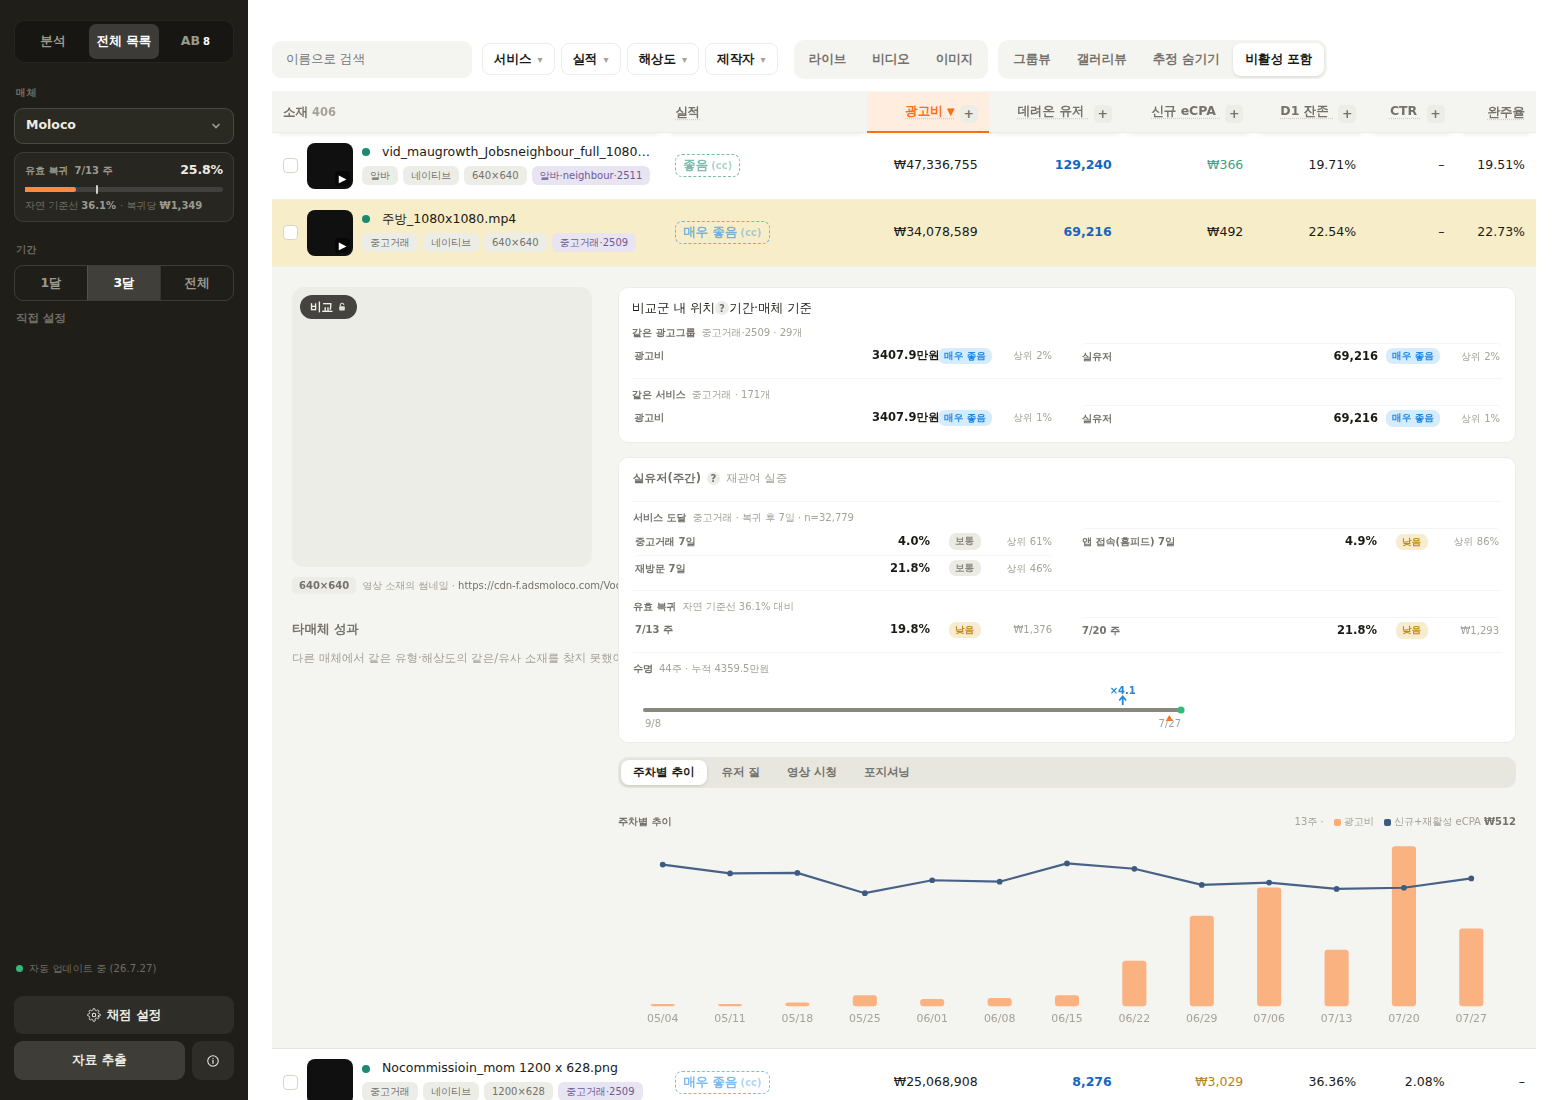
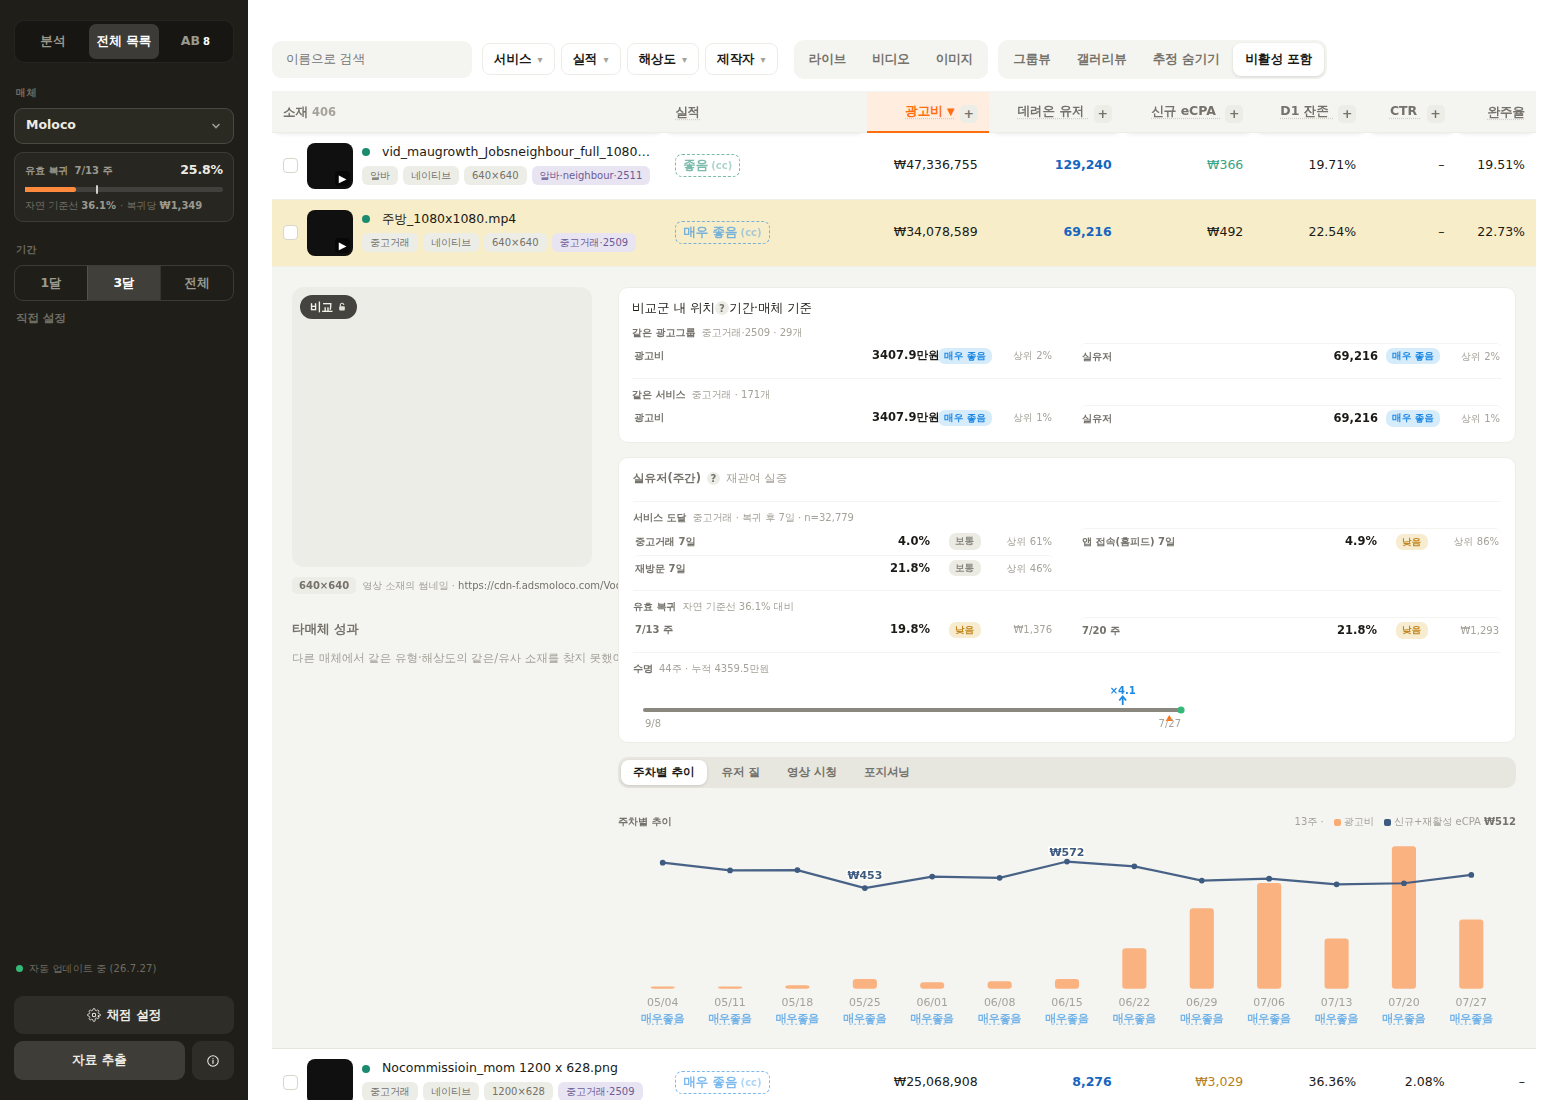
비교뷰 관심 소재 강조 · 주차별 추이 실적 라벨 상시 표기·선 최고/최저 수치 (#173)
비교뷰:
- 미리보기 카드나 표 열에 마우스를 올리면 차트에서 그 소재의 선이 굵어지고(1.6→3.4px)
  점이 커지며 나머지는 물러난다(opacity .16). 선이 얇아 여러 개가 겹칠 때 색만으로는
  지금 보는 게 어느 것인지 찾기 어려웠다
- 카드·표 헤더·표 셀·차트 선/점이 data-ci(소재 인덱스)를 공유해 어느 쪽에 올려도 함께 반응

주차별 추이:
- 막대 밑 실적 라벨을 모든 주에 채운다. 직전엔 '변화 지점만'으로 줄였는데 빈 주가 너무 많아
  판단이 안 됐다 — 빈칸은 '성과 없음'으로 오독되므로 실측이 없으면 추정 등급을 흐린 점선으로
  깔아 대강이라도 읽히게 한다. 구글 외 매체(실측 라벨 미제공)도 추정으로 채운다
- 선의 최고점·최저점에만 수치를 표기. 라벨 위치는 그 주에서 이 선이 다른 선보다 위인지로
  정해(위면 점 위, 아래면 점 아래) 두 선이 교차해도 숫자가 겹치지 않는다.
  흰 외곽선(paint-order)으로 선 위에 겹쳐도 읽힌다

검증: 비교뷰 2·3·4·5·6·8개 레이아웃 무결(넘침 0·배율 1.0), 호버 시 선 1개만 3.4px·나머지 3개
dim 확인, 상세 4개 매체 클리핑 0·오류 0.

Claude-Session: https://claude.ai/code/session_01MTtavjs5eMP9qoMEN7bzkC

diff --git a/index.html b/index.html
@@ -705,6 +705,15 @@
   /* 모든 섹션이 이 한 폭을 공유한다 — 개수에서 유도한 max-width가 인라인으로 들어온다.
      예전엔 카드만 좌측에 몰리고(고정 max 360px) 표·차트는 화면 전체를 써서 세로선이 어디에도 맞지 않았다 */
   .cmpm-in{margin:0 auto;width:100%}
+  /* 관심 소재 강조 — 카드·표 열 호버 시 차트의 해당 선/점만 굵게, 나머지는 물러난다 */
+  .cmpm-in path.cmp-ln{transition:stroke-width .12s,opacity .12s}
+  .cmpm-in circle.cmp-dot{transition:opacity .12s}
+  path.cmp-ln.cmp-hi{stroke-width:3.4;stroke-opacity:1}
+  circle.cmp-dot.cmp-hi{r:5}
+  path.cmp-ln.cmp-dim,circle.cmp-dot.cmp-dim{opacity:.16}
+  .cmpm-med.cmp-hi .isle-frame{box-shadow:inset 0 0 0 3px var(--cc,#E2DFD3)}
+  .cmpm-med.cmp-dim{opacity:.5}
+  .cmpg th.cmp-hi,.cmpg td.cmp-hi{background:var(--surface-2)}
   /* 미리보기 — 개수에서 정한 열 수로 접고(5~6개는 3열 2행), 프레임 높이도 같은 규칙에서 온다 */
   .cmpm-media{display:grid;gap:16px 14px;margin:2px 0 8px}
   .cmpm-med{min-width:0}
@@ -3666,7 +3675,11 @@ function creativeTrendHTML(ds,e){
       const w=String(r.date||"").slice(0,10);
       const v=String(r._g_perfLabel).trim().replace(/^--$/,"");
       if(_plW[w]==null||v)_plW[w]=v;}}
-  const hasPl=ws.some(w=>_plW[w]!==undefined);
+  /* 막대 밑 실적 — 실측이 없어도 추정 등급으로라도 매 주 채운다. 빈칸은 '성과 없음'으로 오독되고,
+     대강이라도 등급이 보여야 막대만 보고 판단할 수 있다. 구글 외 매체는 실측 라벨이 없으므로 추정으로 채운다 */
+  const _fbP=(typeof perfLabelOf==="function")?perfLabelOf(e):null;
+  const _fbLab=(_fbP&&_fbP.lab)||e._perfEst||"";
+  const hasPl=ws.some(w=>_plW[w]!==undefined)||!!_fbLab;
   /* viewBox를 렌더 폭(≈820)에 맞춰 배율 1로 둔다 — 좌표계가 작으면 SVG가 통째로 확대돼(실측 2.7배)
      글자·선이 타이포 스케일을 무시하고 커진다. 주가 많으면 폭 대신 슬롯을 좁혀 담는다(가로 스크롤 없음). */
   const W=820,pl=10,pr=10,pt=14;
@@ -3676,7 +3689,6 @@ function creativeTrendHTML(ds,e){
   const slot=iw/ws.length,xat=i=>pl+(i+0.5)*slot;
   const bw=Math.max(4,Math.min(22,slot*0.38)); /* 슬롯에 비례한 막대 — 주가 많아도 겹치지 않는다 */
   let s="";
-  let _prevLab=null; /* 같은 등급이 이어지면 생략하고 '바뀐 지점'에만 라벨을 찍는다 — 13주 내내 같은 글자가 반복되면 노이즈다 */
   ws.forEach((w,i)=>{const o=os[i],x=xat(i);
     const h=Math.max(2,(o.c/cmax)*ih);
     /* 주차 점수 표기·티어색 제거 — 점수는 내부 계산 전용, 화면엔 지표 원값만 */
@@ -3688,24 +3700,34 @@ function creativeTrendHTML(ds,e){
       /* 그 주의 실측 실적 라벨. 없는 주는 빈칸으로 두지 않고 소재 전체 추정 등급을 점선 밑줄로 표기 —
          "라벨이 없다"와 "성과가 없다"는 다른 뜻이라 빈칸이 오독을 만든다 */
       const act=_plW[w];
-      /* 그 주 실측 라벨이 없으면 빈칸으로 두지 않는다 — 소재의 현재 라벨(없으면 추정)을 점선으로 깐다.
-         "라벨이 없다"와 "성과가 없다"는 다른 뜻이라 빈칸이 오독을 만든다 */
-      const _fb=(typeof perfLabelOf==="function")?perfLabelOf(e):null;
-      const lab0=(act!==undefined&&act)?act:(act===undefined?((_fb&&_fb.lab)||e._perfEst||""):"보통");
-      const changed=lab0!==_prevLab;_prevLab=lab0;
-      if(lab0&&(changed||i===ws.length-1)){
+      const lab0=(act!==undefined&&act)?act:(act===undefined?_fbLab:"보통");
+      if(lab0){
         const est=!(act!==undefined&&act);
         const lab=PERF_LABEL_ALIAS[lab0]||lab0;
         const t=PERF_TIER[lab]||"m";
         const tc=t==="g2"?"var(--g2)":t==="g1"?"var(--g1)":t==="w1"?"var(--w1)":t==="w2"?"var(--w2)":"var(--mid)";
-        s+=`<text x="${x.toFixed(1)}" y="${H-6}" font-size="10" font-weight="${est?600:700}" fill="${tc}" fill-opacity="${est?0.6:1}" text-anchor="middle" data-tip="${escAttr((est?"<b>추정 실적</b> — 이 주의 리포트 실적 라벨이 없어 최근 확인된 등급을 표시(점선)":"구글 리포트 실측 실적")+"<br>등급이 바뀐 주와 마지막 주에만 표시합니다")}">${escHtml(lab.replace(/\s+/g,""))}</text>`;
+        s+=`<text x="${x.toFixed(1)}" y="${H-6}" font-size="10" font-weight="${est?600:700}" fill="${tc}" fill-opacity="${est?0.6:1}" text-anchor="middle" data-tip="${escAttr(est?"<b>추정 실적</b>(점선) — 이 주의 리포트 실적 라벨이 없어 최근 확인된 등급으로 대신 표시":"구글 리포트 실측 실적")}">${escHtml(lab.replace(/\s+/g,""))}</text>`;
         if(est)s+=`<line x1="${(x-14).toFixed(1)}" y1="${H-3.5}" x2="${(x+14).toFixed(1)}" y2="${H-3.5}" stroke="${tc}" stroke-width="1" stroke-dasharray="2 2" stroke-opacity="0.5"/>`;}}});
   for(const ln of lines){let p="",st=false,dots="";
     ws.forEach((w,i)=>{const v=ln.vals[i];if(v==null)return;
       const x=xat(i),y=pt+(1-v/ln.mx)*ih;
       p+=st?` L ${x.toFixed(1)} ${y.toFixed(1)}`:`M ${x.toFixed(1)} ${y.toFixed(1)}`;st=true;
       dots+=`<circle cx="${x.toFixed(1)}" cy="${y.toFixed(1)}" r="2.6" fill="${ln.col}"/>`;});
-    s+=`<path d="${p}" fill="none" stroke="${ln.col}" stroke-width="2"${ln.dash?' stroke-dasharray="5 3"':''} stroke-opacity="0.95"/>${dots}`;}
+    s+=`<path d="${p}" fill="none" stroke="${ln.col}" stroke-width="2"${ln.dash?' stroke-dasharray="5 3"':''} stroke-opacity="0.95"/>${dots}`;
+    /* 최고·최저점만 수치를 적는다(모든 점에 붙이면 숫자가 선을 덮는다).
+       라벨을 위에 둘지 아래에 둘지는 그 주에서 이 선이 다른 선보다 위인지로 정한다 — 두 선이 교차해도 겹치지 않는다 */
+    const yOf=(o,i)=>o.vals[i]==null?null:pt+(1-o.vals[i]/o.mx)*ih;
+    let hi=null,lo=null;
+    ln.vals.forEach((v,i)=>{if(v==null)return;
+      if(!hi||v>hi.v)hi={i,v};
+      if(!lo||v<lo.v)lo={i,v};});
+    const marks=hi&&lo&&hi.i!==lo.i?[hi,lo]:(hi?[hi]:[]);
+    for(const mk of marks){
+      const x=xat(mk.i),y=yOf(ln,mk.i);
+      let above=true;
+      for(const o of lines){if(o===ln)continue;const oy=yOf(o,mk.i);if(oy!=null&&oy<y){above=false;break;}}
+      const ly=above?Math.max(pt+9,y-8):Math.min(H-pb-4,y+15);
+      s+=`<text x="${x.toFixed(1)}" y="${ly.toFixed(1)}" text-anchor="middle" font-size="10" font-weight="750" fill="${ln.col}" paint-order="stroke" stroke="#FFFDF7" stroke-width="3" stroke-linejoin="round">${escHtml(ln.fmt(mk.v))}</text>`;}}
   /* 범례는 최소한으로: 주 수 · 색=지표 매핑 · 최신값. 비율·설명은 푸터/툴팁이 담당(중복 금지) */
   const leg=lines.map(ln=>`<span><i class="lgd" style="background:${ln.col}"></i>${ln.lab} <b>${ln.last!=null?ln.fmt(ln.last):"–"}</b></span>`).join(" ");
   return `<div class="ispark"><div class="ispark-h">주차별 추이 <span>${ws.length}주 · <i class="lgd" style="background:var(--karrot);opacity:.55"></i>광고비 ${leg}</span></div><div class="ispark-scroll"><svg class="ispark-svg" viewBox="0 0 ${W} ${H}">${s}</svg></div></div>`;}
@@ -4485,9 +4507,9 @@ function cmpAxesSVG(R){
     const ps=pts[j].filter(Boolean);
     if(!ps.length)return;
     let pth="";ps.forEach((p,k)=>{pth+=(k?" L":"M")+` ${p.x.toFixed(1)} ${p.y.toFixed(1)}`;});
-    lines2+=`<path d="${pth}" fill="none" stroke="${col}" stroke-width="1.6" stroke-opacity="0.9" stroke-linejoin="round"/>`;
+    lines2+=`<path class="cmp-ln" data-ci="${en.i}" d="${pth}" fill="none" stroke="${col}" stroke-width="1.6" stroke-opacity="0.9" stroke-linejoin="round"/>`;
     pts[j].forEach((p,ci)=>{if(!p)return;const c=cols[ci];
-      dots+=`<circle class="cmp-dot" cx="${p.x.toFixed(1)}" cy="${p.y.toFixed(1)}" r="3.2" fill="${col}" data-cv="${escAttr(c.d.lab+" "+c.d.fmt(c.raw[j]))}" data-cc="${col}"/>`;});});
+      dots+=`<circle class="cmp-dot" data-ci="${en.i}" cx="${p.x.toFixed(1)}" cy="${p.y.toFixed(1)}" r="3.2" fill="${col}" data-cv="${escAttr(c.d.lab+" "+c.d.fmt(c.raw[j]))}" data-cc="${col}"/>`;});});
   /* 지표(열)마다 최고점 위·최저점 아래에만 수치 표기 — 작고 가볍게 */
   cols.forEach((c,ci)=>{
     const here=pts.map(ent=>ent[ci]).filter(Boolean);
@@ -4504,7 +4526,7 @@ function cmpGridHTML(R){
   /* 열이 많아지면 헤더 이름부터 줄여 표가 가로로 넘치지 않게 한다(넘치면 오른쪽 소재가 화면 밖으로 나간다) */
   const nmLen=ents.length>=7?8:(ents.length>=5?11:14);
   const head=order.map((j,rank)=>{const en=ents[j];const nm=displayNameOf(en.e);
-    return `<th style="color:${R.colorByList.get(en.i)}" title="${escAttr(nm)}">${rank+1}위 · ${escHtml(trunc(nm,nmLen))}</th>`;}).join("");
+    return `<th data-ci="${en.i}" style="color:${R.colorByList.get(en.i)}" title="${escAttr(nm)}">${rank+1}위 · ${escHtml(trunc(nm,nmLen))}</th>`;}).join("");
   const rows=defs.map(d=>{
     const vs=tots.map(t=>d.of(t));
     if(vs.every(v=>v==null))return "";
@@ -4515,7 +4537,7 @@ function cmpGridHTML(R){
     const second=sorted.length>=2?sorted[1]:null;
     const domi=best!=null&&second!=null&&second>0&&best>0&&(d.dir>0?best/second:second/best)>=1.5;
     const cells=order.map(j=>{const v=vs[j];const win=d.dir&&v!=null&&val.length>=2&&v===best;
-      return `<td class="num${win?" win":""}${win&&domi?" gold":""}">${v!=null?d.fmt(v):"–"}</td>`;}).join("");
+      return `<td class="num${win?" win":""}${win&&domi?" gold":""}" data-ci="${ents[j].i}">${v!=null?d.fmt(v):"–"}</td>`;}).join("");
     return `<tr><td class="l">${escHtml(d.lab)}${d.dir<0?" ↓":d.dir>0?" ↑":""}</td>${cells}</tr>`;}).join("");
   return `<div class="cmpg-wrap"><table class="cmpg"><thead><tr><th class="l">지표</th>${head}</tr></thead><tbody>${rows}</tbody></table></div>`;}
 /* [추이] 지표별 바둑판 — 전 지표를 한눈에. 표시 구간은 '몇 개 이상의 소재가 함께 집행된 주'로 직접 고른다
@@ -4563,6 +4585,19 @@ function cmpTrendSectionHTML(R){
     return `<div class="cmp-trc"><h5>${escHtml(d.lab)}${d.dir<0?" ↓":d.dir>0?" ↑":""}</h5><svg viewBox="0 0 ${W2} ${H2}" style="width:100%;height:auto">${svg}${xlab(xat2,W2,H2,8)}</svg></div>`;}).filter(Boolean);
   if(!cells.length)return `<div class="fam-note">주간 값이 있는 지표가 없어요</div>`;
   return `<div class="cmp-trgrid">${cells.join("")}</div>`;}
+/* 관심 소재 강조 — 미리보기 카드나 표 열에 마우스를 올리면 차트에서 그 소재의 선·점만 굵어지고 나머지는 물러난다.
+   선이 얇아 여러 개가 겹칠 때 "지금 보는 게 어느 것인지"를 색만으로 찾기 어려웠다. */
+function cmpSetHi(root,ci){
+  root.querySelectorAll("[data-ci]").forEach(el=>{
+    const on=ci==null||String(el.dataset.ci)===String(ci);
+    el.classList.toggle("cmp-hi",ci!=null&&on);
+    el.classList.toggle("cmp-dim",ci!=null&&!on);});}
+function wireCmpHover(root){
+  let cur=null;
+  const set=ci=>{if(cur===ci)return;cur=ci;cmpSetHi(root,ci);};
+  root.querySelectorAll(".cmpm-med[data-ci], .cmpg th[data-ci], .cmpg td[data-ci]").forEach(el=>{
+    el.addEventListener("mouseenter",()=>set(el.dataset.ci));
+    el.addEventListener("mouseleave",()=>set(null));});}
 function renderCmpModal(){
   const m=$("#cmpModal");if(!m||m.hidden)return;
   const R=cmpRank();
@@ -4570,7 +4605,7 @@ function renderCmpModal(){
   const{ents,domPct,order,ds}=R;
   const meds=order.map((j,rank)=>{const en=ents[j];const url=previewUrlOf(en.e);const pv=url?assetPreview(url,en.e,true):"";
     const nm=displayNameOf(en.e),col=R.colorByList.get(en.i);
-    return `<div class="cmpm-med" style="--cc:${col}">
+    return `<div class="cmpm-med" data-ci="${en.i}" style="--cc:${col}">
       <div class="cmpm-medh"><span class="rank" style="background:${col};color:#fff">${rank+1}위</span>${en.c.locked?`<span class="lk">🔒</span>`:""}<span class="dp">${domPct[j]!=null?"우세도 "+Math.round(domPct[j]*100)+"%":""}</span></div>
       <div class="cmpm-medn" title="${escAttr(nm)}">${escHtml(nm)}</div>
       <button type="button" class="cmpm-medx" data-i="${en.i}" title="비교에서 빼기">✕</button>
@@ -4604,6 +4639,7 @@ function renderCmpModal(){
   m.querySelector(".cmpm-close").onclick=closeCmpModal;
   m.querySelectorAll(".cmpm-sectabs button[data-ct]").forEach(b=>b.onclick=()=>{cmpTab=b.dataset.ct;renderCmpModal();});
   m.querySelectorAll(".cmpm-medx").forEach(b=>b.onclick=()=>cmpRemove(+b.dataset.i));
+  wireCmpHover(m);
   const tm=m.querySelector(".cmp-trmin");if(tm)tm.onchange=()=>{cmpTrendMinN=+tm.value;renderCmpModal();};
   hideCmpDotTip();wireCmpDots(m);}
 document.addEventListener("keydown",ev=>{if(ev.key==="Escape"){const m=$("#cmpModal");if(m&&!m.hidden){closeCmpModal();ev.stopPropagation();}}},true);
